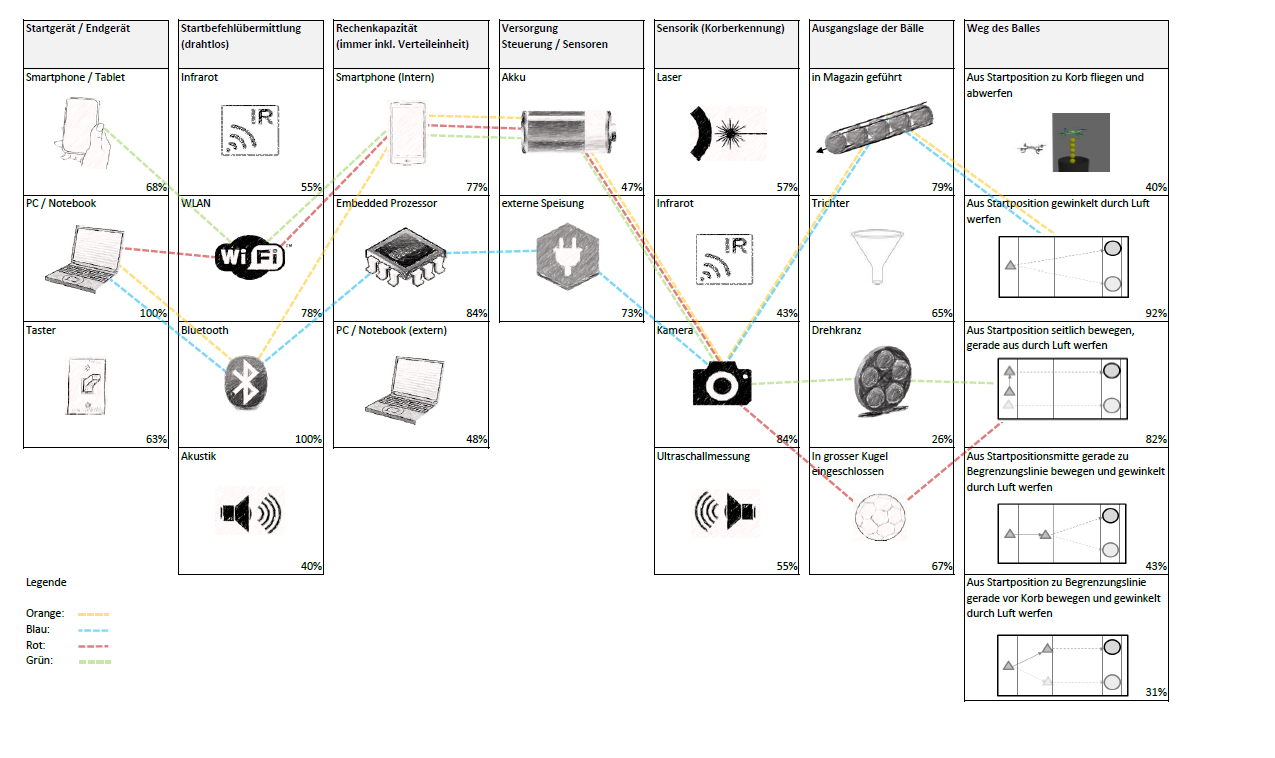
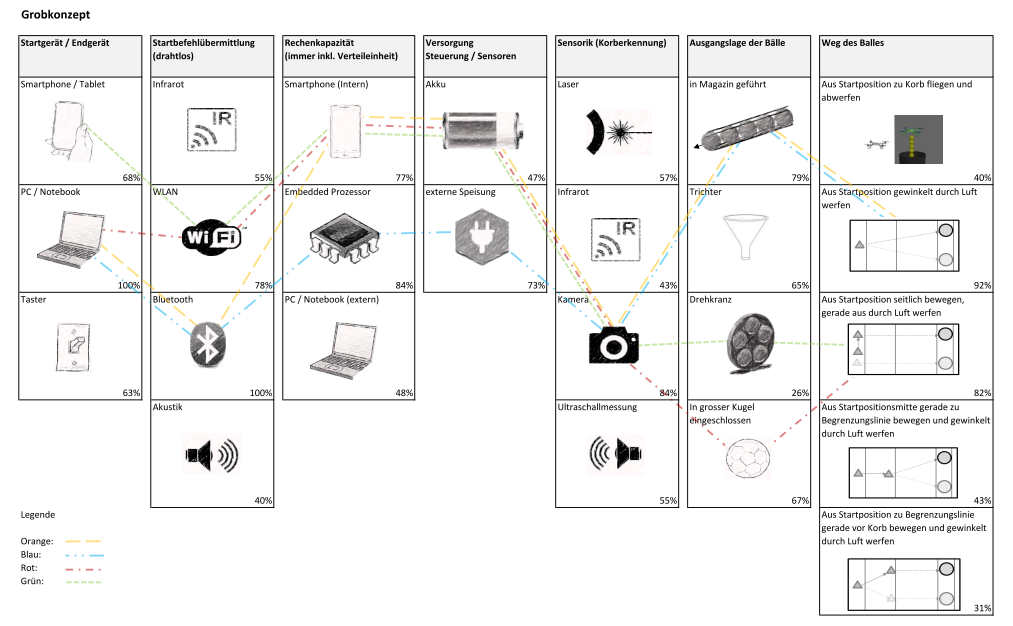
Bild Grobkonzept S/W freundlich gemacht

diff --git a/Dokumentation/Enddokumentation/Varianten/VerschiedeneVarianten.tex b/Dokumentation/Enddokumentation/Varianten/VerschiedeneVarianten.tex
@@ -27,7 +27,7 @@ wurden vier Varianten während einer Diskussionsrunde festgelegt.
 \begin{landscape}
 	\begin{figure}[t]
 		\centering
-		\includegraphics[scale=0.84,clip,trim= 4mm 12mm 22mm 3mm]
+		\includegraphics[scale=0.8,clip,trim= 2mm 2mm 2mm 8mm]
 		{Enddokumentation/Varianten/Bilder/Grobkonzept.png}
 		\caption{Lösungsansätze für die einzelnen Teilprobleme mit den vier gewählten Varianten}
 		\label{fig:Grobkonzept}
